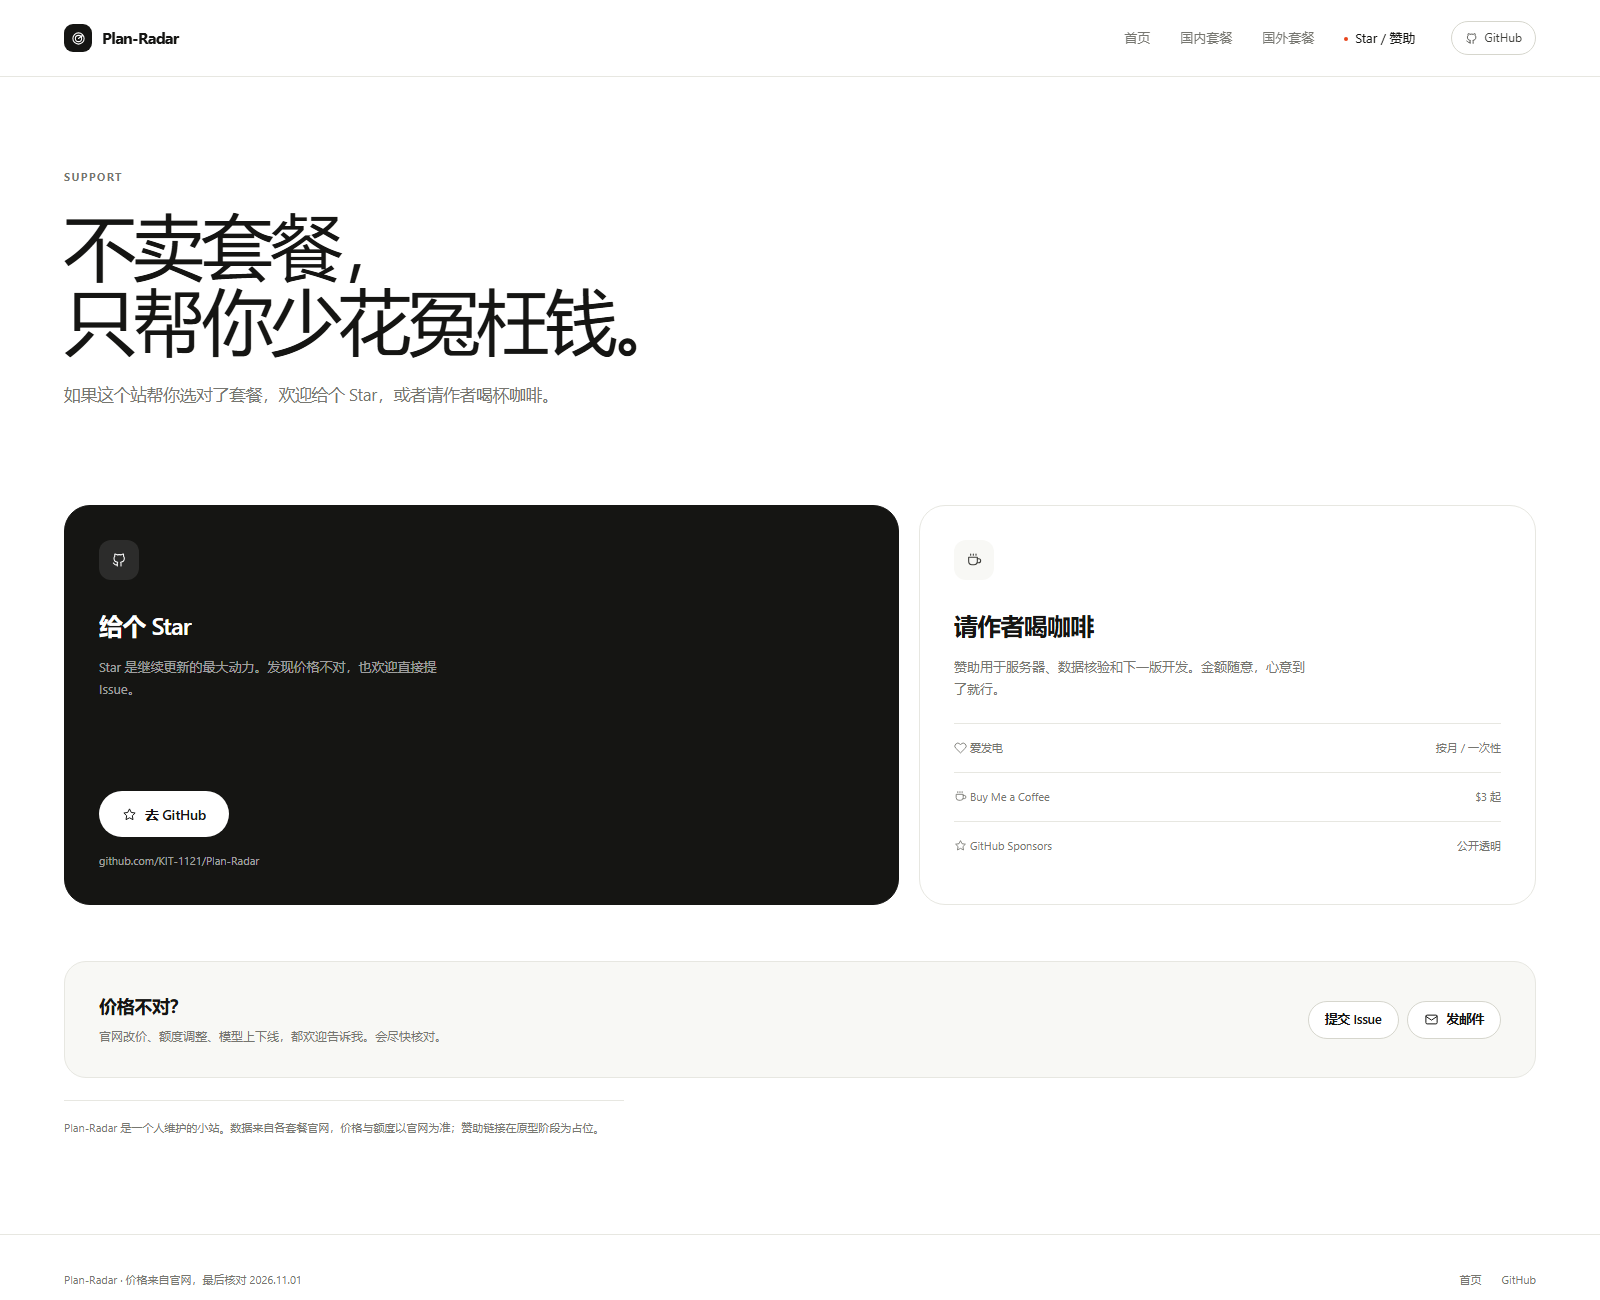
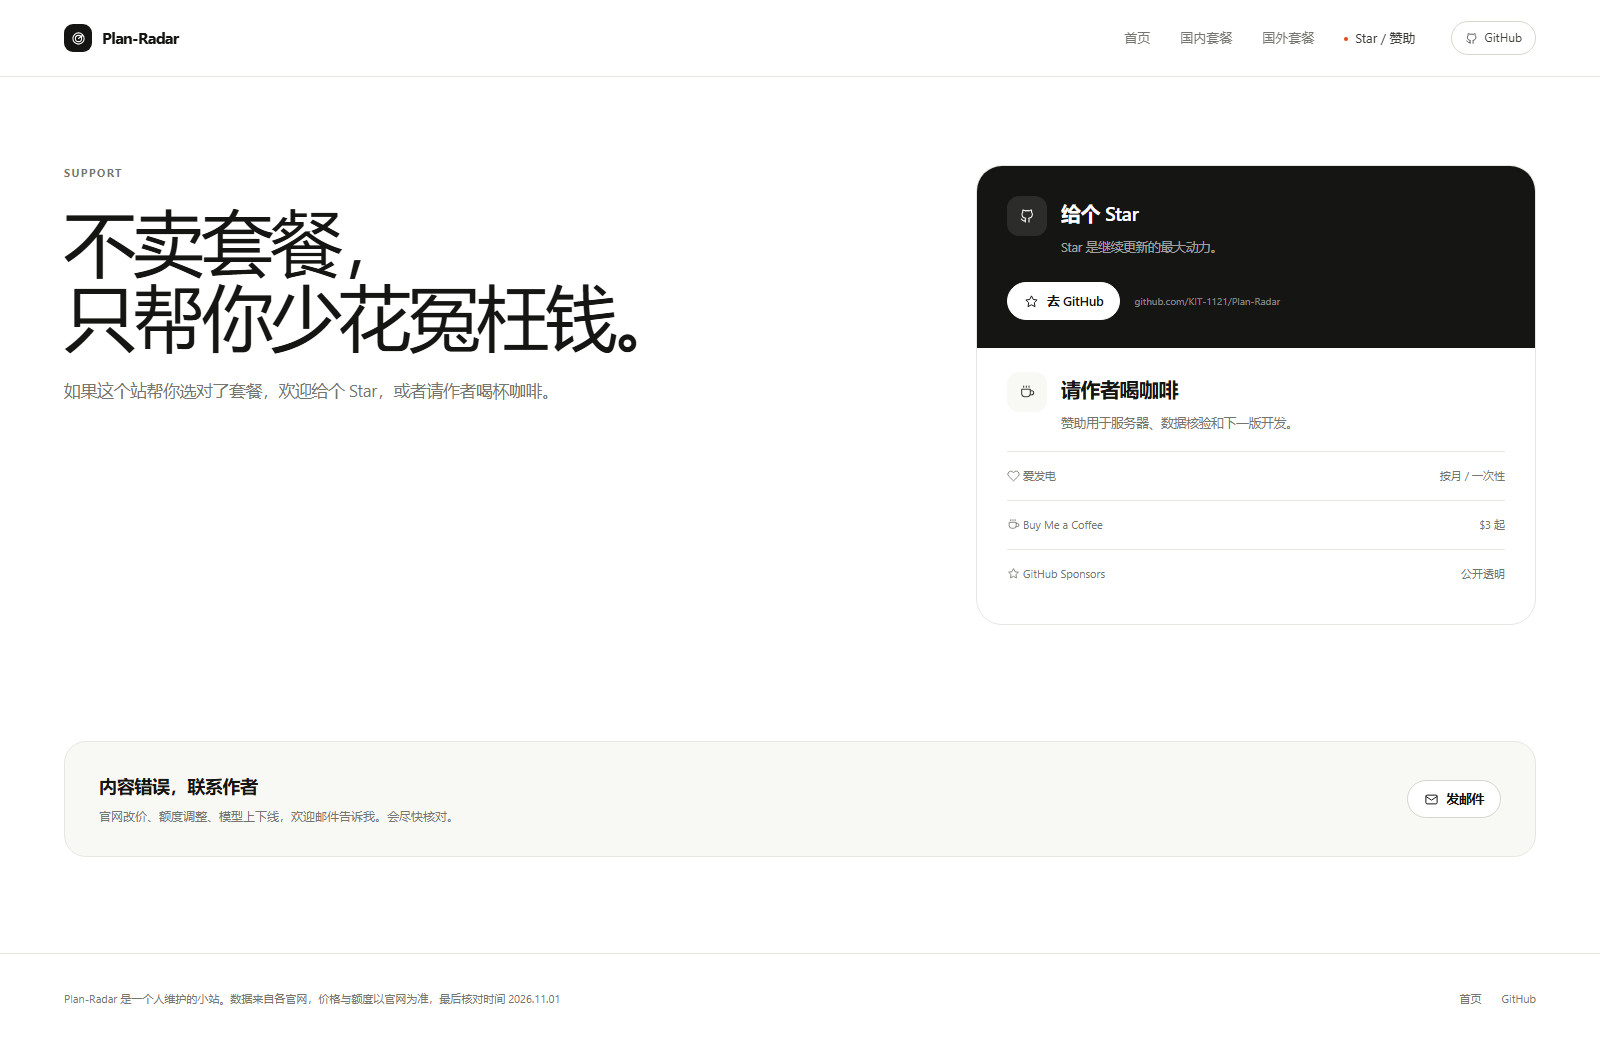
fix: sponsor layout

diff --git a/sponsor.html b/sponsor.html
@@ -40,57 +40,64 @@
 
 <main>
   <section class="support-hero">
-    <div class="wrap">
-      <div class="eyebrow">Support</div>
-      <h1 class="display" style="margin-top:20px">不卖套餐，<br>只帮你少花冤枉钱。</h1>
-      <p class="lead">如果这个站帮你选对了套餐，欢迎给个 Star，或者请作者喝杯咖啡。</p>
+    <div class="wrap support-hero-grid">
+      <div class="support-hero-copy">
+        <div class="eyebrow">Support</div>
+        <h1 class="display" style="margin-top:20px">不卖套餐，<br>只帮你少花冤枉钱。</h1>
+        <p class="lead">如果这个站帮你选对了套餐，欢迎给个 Star，或者请作者喝杯咖啡。</p>
+      </div>
+
+      <aside class="support-panel">
+        <div class="support-panel-top">
+          <div class="support-panel-head">
+            <span class="support-icon"><svg class="icon"><use href="#i-github"/></svg></span>
+            <div>
+              <h3>给个 Star</h3>
+              <p>Star 是继续更新的最大动力。</p>
+            </div>
+          </div>
+          <div class="support-panel-actions">
+            <a class="btn small" href="https://github.com/KIT-1121/Plan-Radar" target="_blank" rel="noreferrer">
+              <svg class="icon"><use href="#i-star"/></svg> 去 GitHub
+            </a>
+            <span class="support-panel-link">github.com/KIT-1121/Plan-Radar</span>
+          </div>
+        </div>
+
+        <div class="support-panel-bottom">
+          <div class="support-panel-head">
+            <span class="support-icon"><svg class="icon"><use href="#i-coffee"/></svg></span>
+            <div>
+              <h3>请作者喝咖啡</h3>
+              <p>赞助用于服务器、数据核验和下一版开发。</p>
+            </div>
+          </div>
+          <div class="sponsor-list">
+            <a class="sponsor-item" href="#" data-placeholder><span><svg class="icon icon-sm" style="display:inline;vertical-align:-2px"><use href="#i-heart"/></svg> 爱发电</span><span>按月 / 一次性</span></a>
+            <a class="sponsor-item" href="#" data-placeholder><span><svg class="icon icon-sm" style="display:inline;vertical-align:-2px"><use href="#i-coffee"/></svg> Buy Me a Coffee</span><span>$3 起</span></a>
+            <a class="sponsor-item" href="#" data-placeholder><span><svg class="icon icon-sm" style="display:inline;vertical-align:-2px"><use href="#i-star"/></svg> GitHub Sponsors</span><span>公开透明</span></a>
+          </div>
+        </div>
+      </aside>
     </div>
   </section>
 
   <div class="wrap">
-    <div class="support-grid">
-      <div class="support-card dark">
-        <div class="support-icon"><svg class="icon"><use href="#i-github"/></svg></div>
-        <h2 class="support-title">给个 Star</h2>
-        <p class="support-text">Star 是继续更新的最大动力。发现价格不对，也欢迎直接提 Issue。</p>
-        <div class="support-foot">
-          <a class="btn primary" href="https://github.com/KIT-1121/Plan-Radar" target="_blank" rel="noreferrer">
-            <svg class="icon"><use href="#i-star"/></svg> 去 GitHub
-          </a>
-          <p class="support-text" style="margin-top:14px;font-size:11px">github.com/KIT-1121/Plan-Radar</p>
-        </div>
-      </div>
-
-      <div class="support-card">
-        <div class="support-icon"><svg class="icon"><use href="#i-coffee"/></svg></div>
-        <h2 class="support-title">请作者喝咖啡</h2>
-        <p class="support-text">赞助用于服务器、数据核验和下一版开发。金额随意，心意到了就行。</p>
-        <div class="sponsor-list">
-          <a class="sponsor-item" href="#" data-placeholder><span><svg class="icon icon-sm" style="display:inline;vertical-align:-2px"><use href="#i-heart"/></svg> 爱发电</span><span>按月 / 一次性</span></a>
-          <a class="sponsor-item" href="#" data-placeholder><span><svg class="icon icon-sm" style="display:inline;vertical-align:-2px"><use href="#i-coffee"/></svg> Buy Me a Coffee</span><span>$3 起</span></a>
-          <a class="sponsor-item" href="#" data-placeholder><span><svg class="icon icon-sm" style="display:inline;vertical-align:-2px"><use href="#i-star"/></svg> GitHub Sponsors</span><span>公开透明</span></a>
-        </div>
-      </div>
-    </div>
-
     <div class="correction">
       <div>
-        <h3>价格不对？</h3>
-        <p>官网改价、额度调整、模型上下线，都欢迎告诉我。会尽快核对。</p>
+        <h3>内容错误，联系作者</h3>
+        <p>官网改价、额度调整、模型上下线，欢迎邮件告诉我。会尽快核对。</p>
       </div>
       <div class="correction-actions">
-        <a class="btn secondary small" href="https://github.com/KIT-1121/Plan-Radar/issues" target="_blank" rel="noreferrer">提交 Issue</a>
         <a class="btn secondary small" href="mailto:hello@plan-radar.dev"><svg class="icon icon-sm"><use href="#i-mail"/></svg> 发邮件</a>
       </div>
     </div>
-
-    <p class="note" style="max-width:560px">Plan-Radar 是一个人维护的小站。数据来自各套餐官网，价格与额度以官网为准；赞助链接在原型阶段为占位。</p>
   </div>
 </main>
 
 <footer class="site-footer">
   <div class="wrap footer-inner">
-    <span>Plan-Radar · 价格来自官网，最后核对 2026.11.01</span>
+    <span>Plan-Radar 是一个人维护的小站。数据来自各官网，价格与额度以官网为准，最后核对时间 2026.11.01</span>
     <div class="footer-links">
       <a href="index.html">首页</a>
       <a href="https://github.com/KIT-1121/Plan-Radar" target="_blank" rel="noreferrer">GitHub</a>

diff --git a/assets/style.css b/assets/style.css
@@ -840,9 +840,53 @@ h1, h2, h3, p { margin: 0; }
 
 /* ---------- sponsor ---------- */
 
-.support-hero { padding: 92px 0 54px; }
+.support-hero { padding: 88px 0 60px; }
 .support-hero .display { max-width: 820px; }
 .support-hero .lead { margin-top: 24px; }
+
+.support-hero-grid {
+  display: grid;
+  grid-template-columns: minmax(0, 1fr) minmax(420px, 560px);
+  gap: 80px;
+  align-items: start;
+}
+.support-hero-copy .display { max-width: 760px; }
+.support-hero-copy .lead { max-width: 640px; }
+
+.support-panel {
+  overflow: hidden;
+  border: 1px solid var(--line);
+  border-radius: 26px;
+  background: #fff;
+}
+.support-panel-top {
+  padding: 30px 30px 28px;
+  background: var(--ink);
+  color: #fff;
+}
+.support-panel-bottom { padding: 24px 30px 26px; }
+.support-panel-head { display: flex; align-items: flex-start; gap: 14px; }
+.support-panel-head .support-icon { flex-shrink: 0; }
+.support-panel h3 { font-size: 20px; font-weight: 550; letter-spacing: -0.025em; }
+.support-panel p {
+  margin-top: 8px;
+  font-size: 12.5px;
+  line-height: 1.7;
+  color: var(--muted);
+}
+.support-panel-top p { color: rgba(255, 255, 255, 0.62); }
+.support-panel-top .support-icon { background: rgba(255, 255, 255, 0.1); color: #fff; }
+.support-panel-actions {
+  display: flex;
+  align-items: center;
+  gap: 14px;
+  flex-wrap: wrap;
+  margin-top: 24px;
+}
+.support-panel-actions .btn { background: #fff; border-color: #fff; color: var(--ink); }
+.support-panel-actions .btn:hover { background: #f1f1ec; }
+.support-panel-link { font-size: 10px; color: rgba(255, 255, 255, 0.48); }
+.support-panel-bottom .sponsor-list { margin-top: 16px; }
 
 .support-grid {
   display: grid;
@@ -934,6 +978,17 @@ h1, h2, h3, p { margin: 0; }
   .hero-stat b { font-size: 40px; }
   .update-text { font-size: 15px; }
   .step-title { font-size: 21px; }
+  .support-hero-grid {
+    grid-template-columns: minmax(0, 1fr) minmax(560px, 1.2fr);
+  }
+  .support-panel { display: grid; grid-template-columns: 1fr 1fr; }
+  .support-panel-top {
+    display: flex;
+    flex-direction: column;
+    justify-content: center;
+    border-right: 1px solid rgba(255, 255, 255, 0.12);
+  }
+  .support-panel-bottom { display: flex; flex-direction: column; justify-content: center; }
 }
 
 /* ---------- responsive ---------- */
@@ -963,6 +1018,7 @@ h1, h2, h3, p { margin: 0; }
   .duel-card:last-child { border-left: 0; border-top: 1px solid var(--line); }
   .vs { padding: 12px 0; }
   .support-grid { grid-template-columns: 1fr; }
+  .support-hero-grid { grid-template-columns: 1fr; gap: 40px; }
   .section-head { flex-direction: column; align-items: flex-start; }
   .section-head p { max-width: 520px; }
 }
@@ -994,6 +1050,8 @@ h1, h2, h3, p { margin: 0; }
   .step + .step { padding-left: 0; border-left: 0; }
   .toolbar { flex-direction: column; align-items: flex-start; }
   .correction { flex-direction: column; align-items: flex-start; }
+  .support-panel-top { padding: 24px 24px 22px; }
+  .support-panel-bottom { padding: 20px 24px 22px; }
   .footer-inner { flex-direction: column; align-items: flex-start; gap: 12px; }
   .duel-card { padding: 26px; min-height: 0; }
   .duel-price { font-size: 40px; }
